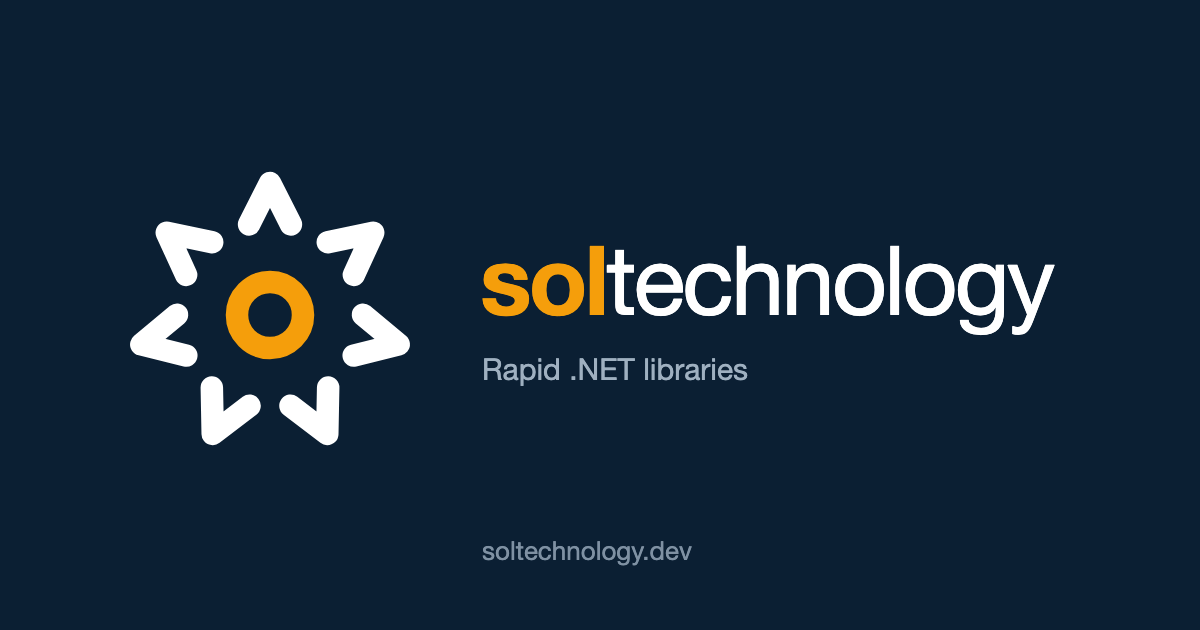
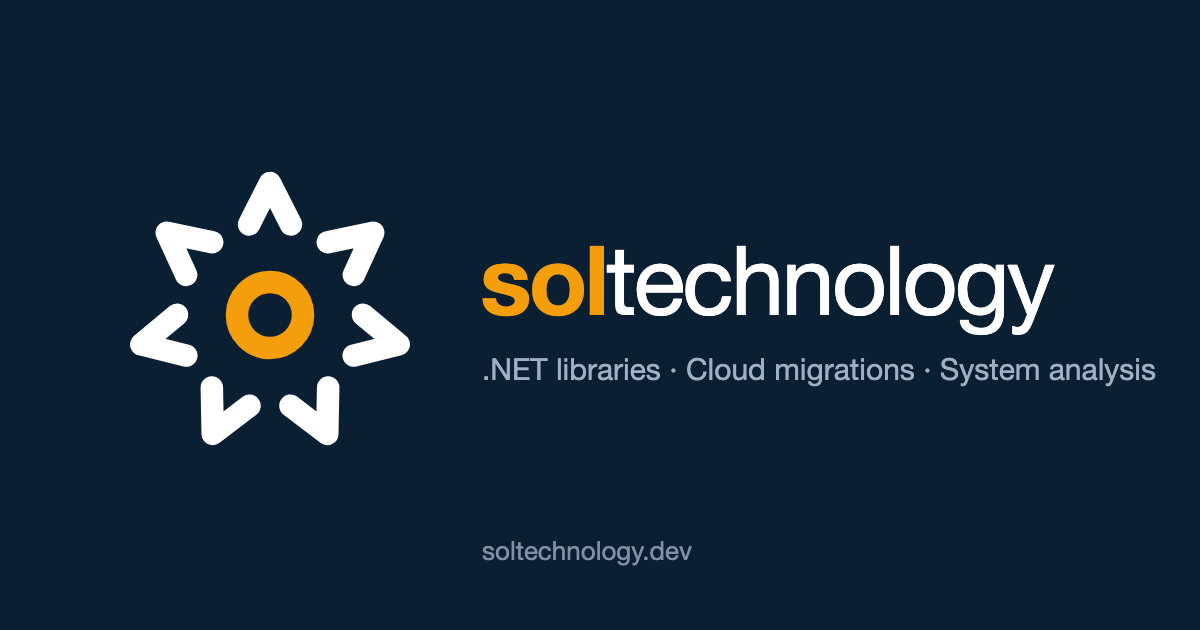
Landing: position SolTechnology as libraries + engineering services (cloud migrations, system analysis); services section; og-image tagline

Changed region(s): [[0.4008, 0.5429, 0.9867, 0.6032]]

diff --git a/src/config.ts b/src/config.ts
@@ -2,7 +2,7 @@ export const site = {
   name: "SolTechnology",
   domain: "soltechnology.dev",
   url: "https://soltechnology.dev",
-  tagline: "Rapid .NET libraries",
+  tagline: ".NET libraries and engineering services: cloud migrations, system analysis, high-performance data",
   contactEmail: "contact@soltechnology.dev",
   supportEmail: "support@soltechnology.dev",
   github: "https://github.com/sol-technology",

diff --git a/scripts/brand-final.py b/scripts/brand-final.py
@@ -87,7 +87,7 @@ write("og-image.svg", svg(1200, 630,
       f'<rect width="1200" height="630" fill="{INK}"/>\n  '
       f'<g transform="translate(120,165) scale(3)">{mark_body(WHITE, SOLAR)}</g>\n  '
       f'<text x="480" y="315" font-family="{FONT}" font-size="96" font-weight="700" letter-spacing="-2.9" fill="{SOLAR}">sol<tspan font-weight="400" fill="{WHITE}">technology</tspan></text>\n  '
-      f'<text x="482" y="380" font-family="{FONT}" font-size="30" fill="#9FB0C0">Rapid .NET libraries</text>\n  '
+      f'<text x="482" y="380" font-family="{FONT}" font-size="30" fill="#9FB0C0">.NET libraries · Cloud migrations · System analysis</text>\n  '
       f'<text x="482" y="560" font-family="{FONT}" font-size="26" fill="#7F91A3">soltechnology.dev</text>'))
 
 # rasters
